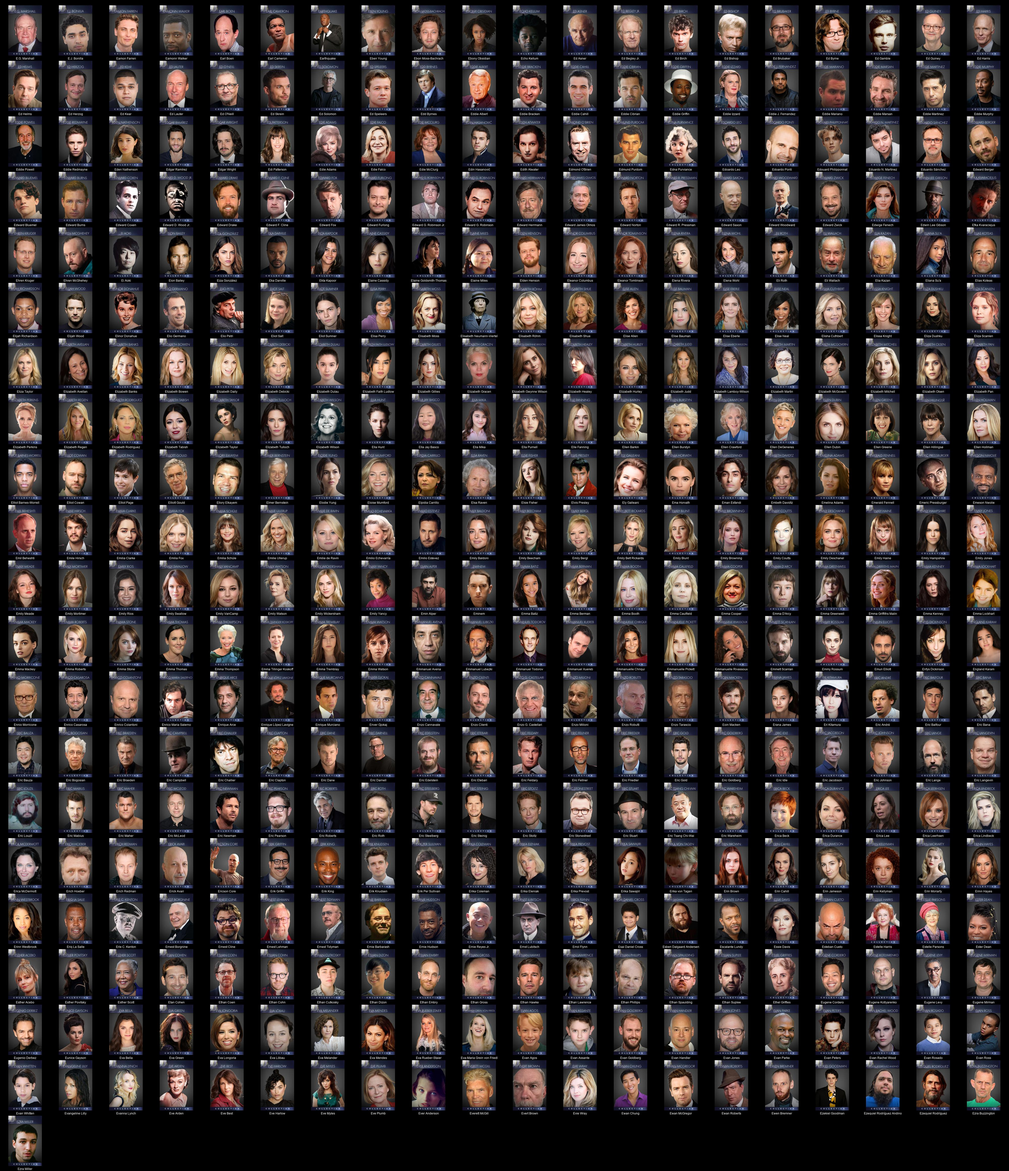
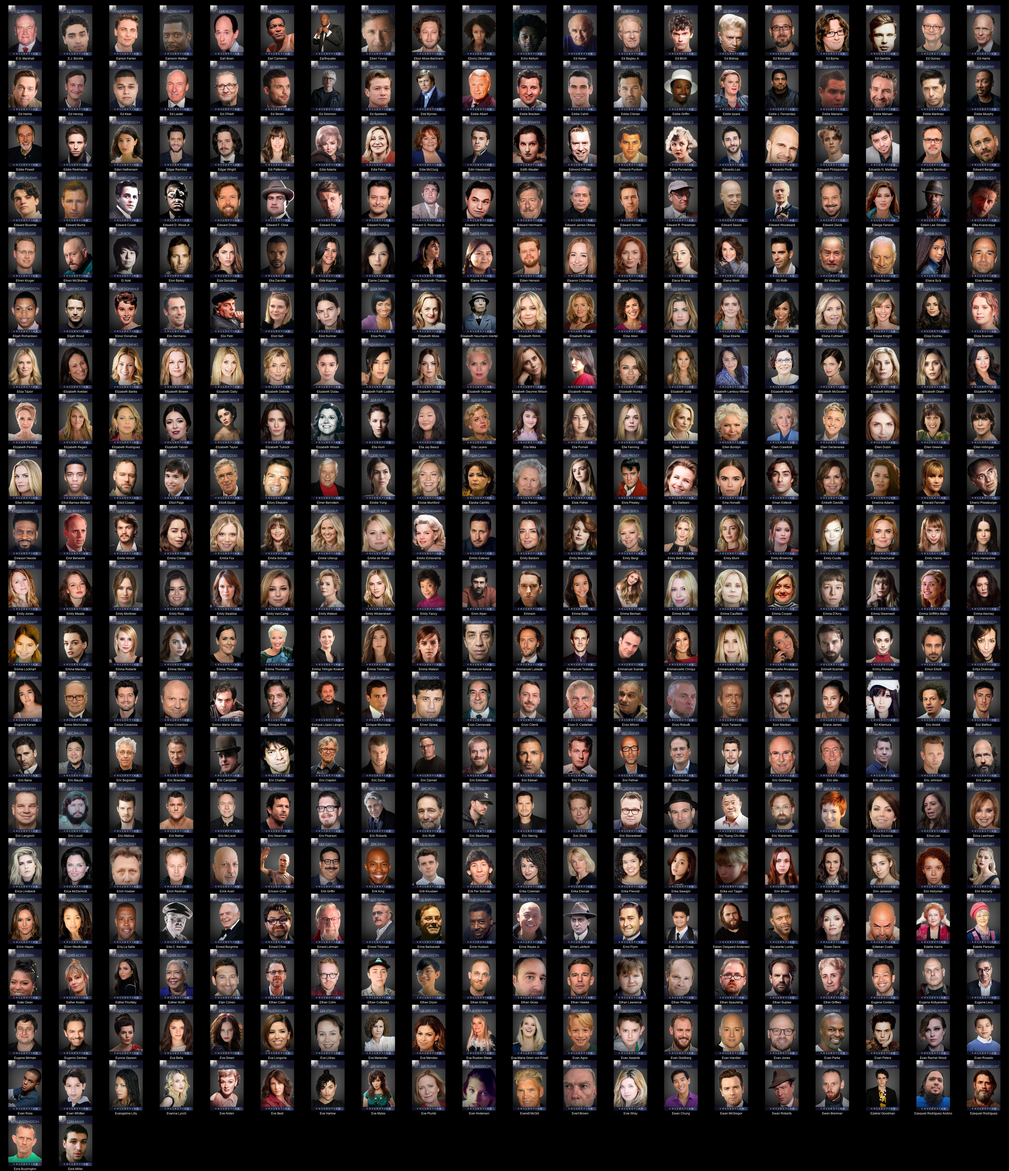
chore: sync posters & docs [transparent,diiivoycolor,signature,diiivoy,rainier] — 2026-02-06 15:29

Changed region(s): [[0.0, 0.3438, 1.0, 1.0]]

diff --git a/README.md b/README.md
@@ -1,4 +1,4 @@
-# Kometa People Images - DIIIVOY Color (diiivoycolor) (11329 Images)
+# Kometa People Images - DIIIVOY Color (diiivoycolor) (11332 Images)
 
 <details><summary><a href="'">' (1 Images)</a></summary>
 
@@ -2955,7 +2955,7 @@
 * [Débora Nascimento](https://raw.githubusercontent.com/kometa-team/People-Images-diiivoycolor/master/D/Images/D%C3%A9bora%20Nascimento.jpg)
 * [Díana Bermudez](https://raw.githubusercontent.com/kometa-team/People-Images-diiivoycolor/master/D/Images/D%C3%ADana%20Bermudez.jpg)
 </details>
-<details><summary><a href="E">E (401 Images)</a></summary>
+<details><summary><a href="E">E (402 Images)</a></summary>
 
 * [E.G. Marshall](https://raw.githubusercontent.com/kometa-team/People-Images-diiivoycolor/master/E/Images/E.G.%20Marshall.jpg)
 * [E.J. Bonilla](https://raw.githubusercontent.com/kometa-team/People-Images-diiivoycolor/master/E/Images/E.J.%20Bonilla.jpg)
@@ -3106,6 +3106,7 @@
 * [Elizabeth Wilson](https://raw.githubusercontent.com/kometa-team/People-Images-diiivoycolor/master/E/Images/Elizabeth%20Wilson.jpg)
 * [Ella Hunt](https://raw.githubusercontent.com/kometa-team/People-Images-diiivoycolor/master/E/Images/Ella%20Hunt.jpg)
 * [Ella Jay Basco](https://raw.githubusercontent.com/kometa-team/People-Images-diiivoycolor/master/E/Images/Ella%20Jay%20Basco.jpg)
+* [Ella Leyers](https://raw.githubusercontent.com/kometa-team/People-Images-diiivoycolor/master/E/Images/Ella%20Leyers.jpg)
 * [Ella Mika](https://raw.githubusercontent.com/kometa-team/People-Images-diiivoycolor/master/E/Images/Ella%20Mika.jpg)
 * [Ella Purnell](https://raw.githubusercontent.com/kometa-team/People-Images-diiivoycolor/master/E/Images/Ella%20Purnell.jpg)
 * [Elle Fanning](https://raw.githubusercontent.com/kometa-team/People-Images-diiivoycolor/master/E/Images/Elle%20Fanning.jpg)
@@ -3359,11 +3360,13 @@
 * [Ezra Buzzington](https://raw.githubusercontent.com/kometa-team/People-Images-diiivoycolor/master/E/Images/Ezra%20Buzzington.jpg)
 * [Ezra Miller](https://raw.githubusercontent.com/kometa-team/People-Images-diiivoycolor/master/E/Images/Ezra%20Miller.jpg)
 </details>
-<details><summary><a href="F">F (202 Images)</a></summary>
+<details><summary><a href="F">F (204 Images)</a></summary>
 
 * [F. Gary Gray](https://raw.githubusercontent.com/kometa-team/People-Images-diiivoycolor/master/F/Images/F.%20Gary%20Gray.jpg)
 * [F. Murray Abraham](https://raw.githubusercontent.com/kometa-team/People-Images-diiivoycolor/master/F/Images/F.%20Murray%20Abraham.jpg)
 * [F. W. Murnau](https://raw.githubusercontent.com/kometa-team/People-Images-diiivoycolor/master/F/Images/F.%20W.%20Murnau.jpg)
+* [FAKELuis Tosar](https://raw.githubusercontent.com/kometa-team/People-Images-diiivoycolor/master/F/Images/FAKELuis%20Tosar.jpg)
+* [FAKEOlivia Cheng](https://raw.githubusercontent.com/kometa-team/People-Images-diiivoycolor/master/F/Images/FAKEOlivia%20Cheng.jpg)
 * [Fabien Frankel](https://raw.githubusercontent.com/kometa-team/People-Images-diiivoycolor/master/F/Images/Fabien%20Frankel.jpg)
 * [Fabio D'Innocenzo](https://raw.githubusercontent.com/kometa-team/People-Images-diiivoycolor/master/F/Images/Fabio%20D%27Innocenzo.jpg)
 * [Fabrice Gianfermi](https://raw.githubusercontent.com/kometa-team/People-Images-diiivoycolor/master/F/Images/Fabrice%20Gianfermi.jpg)

diff --git a/F/README.md b/F/README.md
@@ -1,9 +1,11 @@
-# Kometa People Images - DIIIVOY Color (diiivoycolor) - F (202 Images)
+# Kometa People Images - DIIIVOY Color (diiivoycolor) - F (204 Images)
 ![Grid](grid.jpg)
 
 * [F. Gary Gray](https://raw.githubusercontent.com/kometa-team/People-Images-diiivoycolor/master/F/Images/F.%20Gary%20Gray.jpg)
 * [F. Murray Abraham](https://raw.githubusercontent.com/kometa-team/People-Images-diiivoycolor/master/F/Images/F.%20Murray%20Abraham.jpg)
 * [F. W. Murnau](https://raw.githubusercontent.com/kometa-team/People-Images-diiivoycolor/master/F/Images/F.%20W.%20Murnau.jpg)
+* [FAKELuis Tosar](https://raw.githubusercontent.com/kometa-team/People-Images-diiivoycolor/master/F/Images/FAKELuis%20Tosar.jpg)
+* [FAKEOlivia Cheng](https://raw.githubusercontent.com/kometa-team/People-Images-diiivoycolor/master/F/Images/FAKEOlivia%20Cheng.jpg)
 * [Fabien Frankel](https://raw.githubusercontent.com/kometa-team/People-Images-diiivoycolor/master/F/Images/Fabien%20Frankel.jpg)
 * [Fabio D'Innocenzo](https://raw.githubusercontent.com/kometa-team/People-Images-diiivoycolor/master/F/Images/Fabio%20D%27Innocenzo.jpg)
 * [Fabrice Gianfermi](https://raw.githubusercontent.com/kometa-team/People-Images-diiivoycolor/master/F/Images/Fabrice%20Gianfermi.jpg)

diff --git a/E/README.md b/E/README.md
@@ -1,4 +1,4 @@
-# Kometa People Images - DIIIVOY Color (diiivoycolor) - E (401 Images)
+# Kometa People Images - DIIIVOY Color (diiivoycolor) - E (402 Images)
 ![Grid](grid.jpg)
 
 * [E.G. Marshall](https://raw.githubusercontent.com/kometa-team/People-Images-diiivoycolor/master/E/Images/E.G.%20Marshall.jpg)
@@ -150,6 +150,7 @@
 * [Elizabeth Wilson](https://raw.githubusercontent.com/kometa-team/People-Images-diiivoycolor/master/E/Images/Elizabeth%20Wilson.jpg)
 * [Ella Hunt](https://raw.githubusercontent.com/kometa-team/People-Images-diiivoycolor/master/E/Images/Ella%20Hunt.jpg)
 * [Ella Jay Basco](https://raw.githubusercontent.com/kometa-team/People-Images-diiivoycolor/master/E/Images/Ella%20Jay%20Basco.jpg)
+* [Ella Leyers](https://raw.githubusercontent.com/kometa-team/People-Images-diiivoycolor/master/E/Images/Ella%20Leyers.jpg)
 * [Ella Mika](https://raw.githubusercontent.com/kometa-team/People-Images-diiivoycolor/master/E/Images/Ella%20Mika.jpg)
 * [Ella Purnell](https://raw.githubusercontent.com/kometa-team/People-Images-diiivoycolor/master/E/Images/Ella%20Purnell.jpg)
 * [Elle Fanning](https://raw.githubusercontent.com/kometa-team/People-Images-diiivoycolor/master/E/Images/Elle%20Fanning.jpg)
